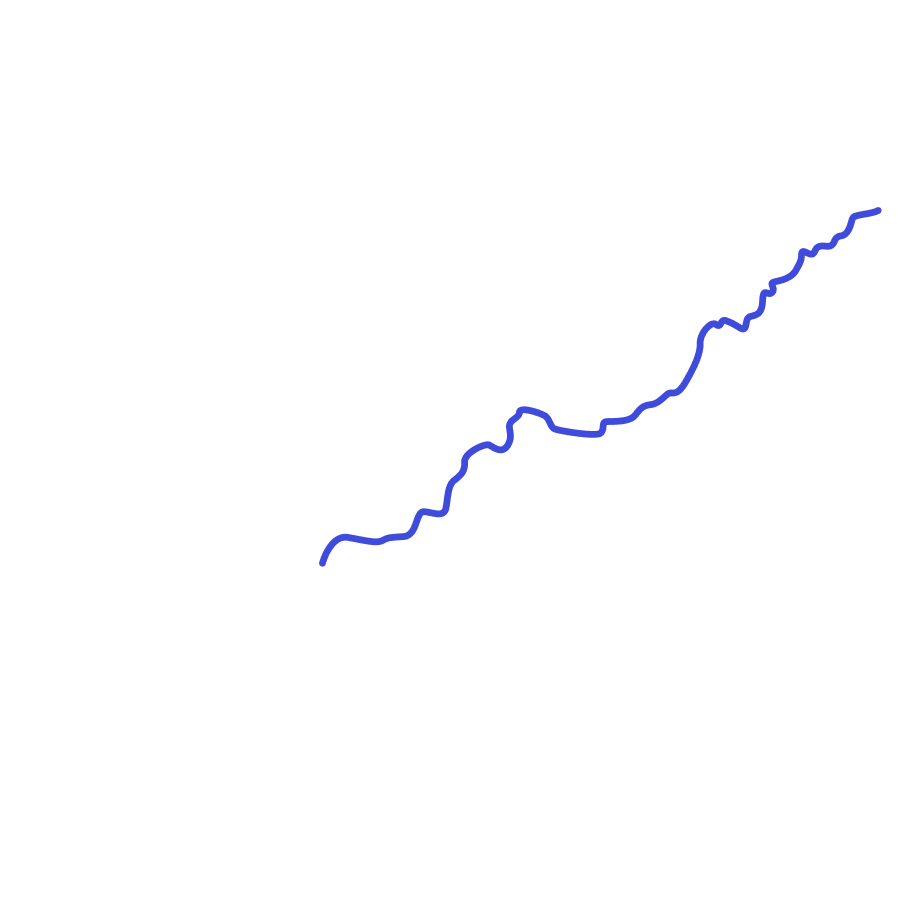
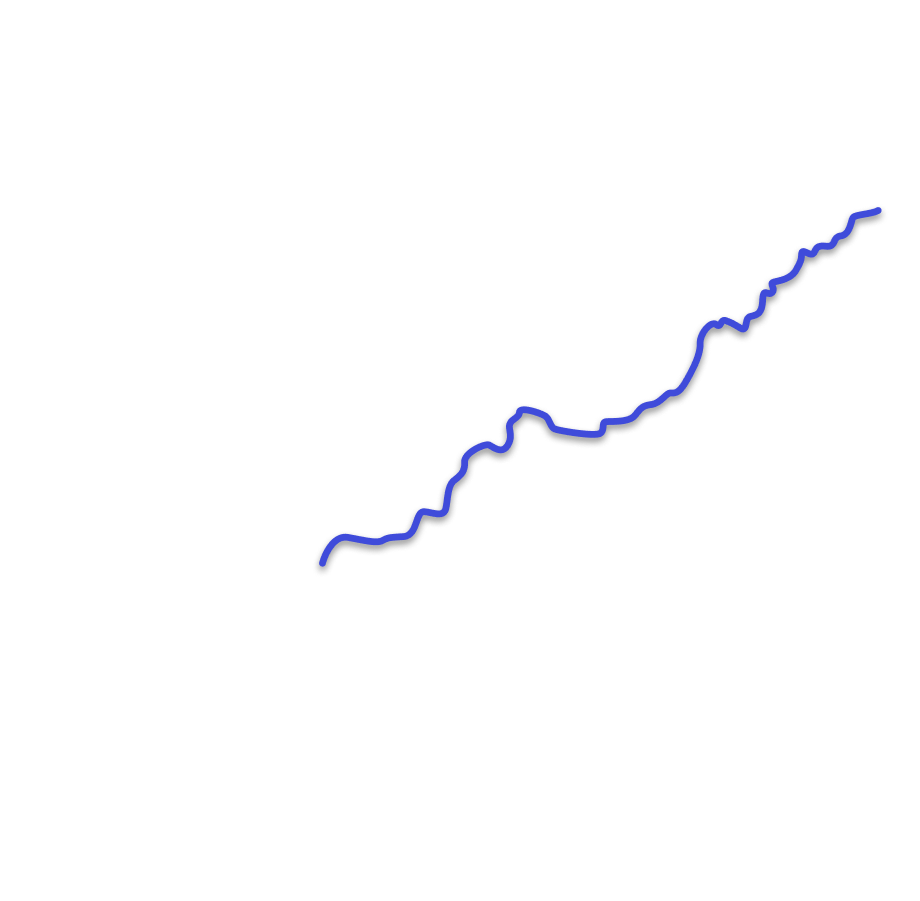
ddd

diff --git a/final/style.css b/final/style.css
@@ -1230,15 +1230,27 @@ footer {
     box-shadow: 0px 0px 12px #00000010;
 }
 
-#course-hover{
+#course-easy{
     width: 100%;
     height: 100%;
     position: absolute;
     animation: courseHover 2s ease-in-out 1 both;
-    
-
-
 }
+#course-normal{
+    width: 100%;
+    height: 100%;
+    position: absolute;
+    animation: courseHover 2s ease-in-out 1 both;
+    z-index: 4;
+}
+
+#course-hard{
+    width: 100%;
+    height: 100%;
+    position: absolute;
+    animation: courseHover 2s ease-in-out 1 both;
+}
+
 
 @keyframes courseHover {
     0%{

diff --git a/final/index.html b/final/index.html
@@ -75,7 +75,9 @@
             </div>
 
             <div class="map">
-                <img src="./Img/conF/course-easy.png" id="course-hover">
+                <img src="./Img/conF/course-easy.png" id="course-easy">
+                <img src="./Img/conF/course-normal.png" id="course-normal">
+                <img src="./Img/conF/course-hard.png" id="course-hard">
             </div>
             
         </section>
